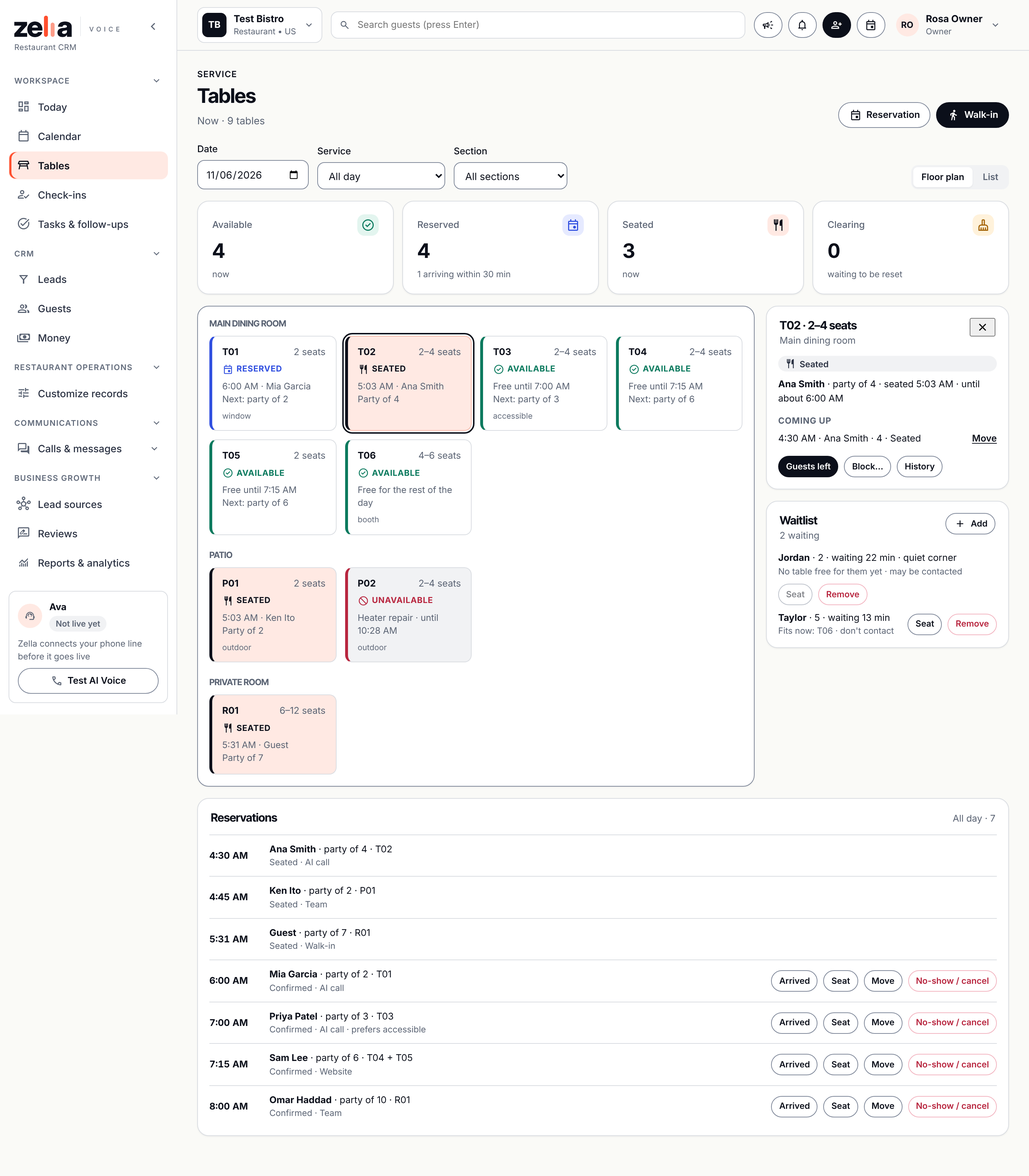
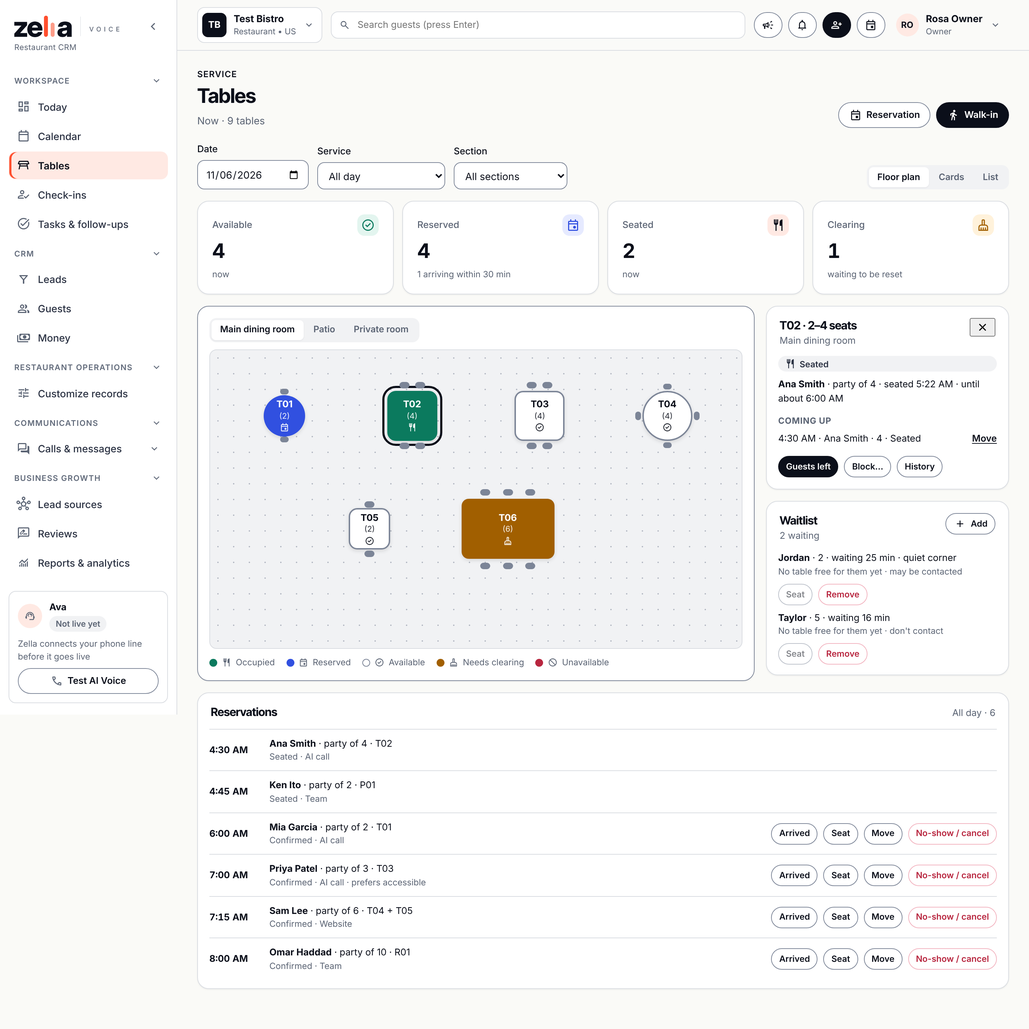
Tables: drawn floor plan on the Tables page and the Today dashboard (BM2, part 3; not applied)
- FloorPlan: each table drawn where the owner placed it, with its shape (square, round, long), chairs for its
  seats, "T2 (4)" and a state colour plus icon (occupied, reserved, held, available, needs clearing,
  unavailable), with a legend. It is a keyboard-operable button with a full spoken label.
- Tables page: Floor plan (sections as tabs), Cards and List views; selecting a table opens its panel.
- Today dashboard (restaurants with tables): a small Table layout card with section tabs and View full layout,
  replacing the old placeholder; a Table column in Today's reservations; sources read Phone / AI receptionist.
- Settings > Tables and seating: a layout editor. Drag tables, or use the arrow keys (Shift for bigger steps); a
  shape per table. Positions are saved per business and audited (restaurant_tables.pos_x / pos_y / shape; drawing
  only, never used for availability).
- Verified in a browser on a local copy: drag and keys saved (79, 75) and audited, actions from the floor plan
  work, no sideways overflow on tablet or phone. Full sequence of 15 pending files passes with exact rollback.

Claude-Session: https://claude.ai/code/session_013Va58JdJpyGbAfXAEmDqgK

diff --git a/web/src/BusinessTables.jsx b/web/src/BusinessTables.jsx
@@ -3,6 +3,7 @@ import { supabase } from "./supabase";
 import { Field, Icon, Modal, Pill } from "./BusinessUI";
 import { formatTime } from "./businessTime";
 import { Empty, Notice, PageHead, Segment, explain, useLoad } from "./BusinessShared";
+import { FloorPlan, autoPlace } from "./FloorPlan";
 
 /* Tables: the live seating board for businesses with "Tables and seating" on (sql/zella_tables.sql).
    Everything here comes from the database's own engine: zella_table_board for what each table is doing now and
@@ -77,6 +78,7 @@ export function TablesPage({ workspace, refreshKey, onNotice, onBook }) {
   const [serviceKey, setServiceKey] = useState("all");
   const [section, setSection] = useState("all");
   const [view, setView] = useState("floor");
+  const [planSection, setPlanSection] = useState(null);
   const [selected, setSelected] = useState(null);
   const [modal, setModal] = useState(null);   // { kind, ... }
   const [working, setWorking] = useState(false);
@@ -150,7 +152,7 @@ export function TablesPage({ workspace, refreshKey, onNotice, onBook }) {
             </select>
           </Field>
         )}
-        <div className="tb-view"><Segment label="View" value={view} onChange={setView} options={[["floor", "Floor plan"], ["list", "List"]]} /></div>
+        <div className="tb-view"><Segment label="View" value={view} onChange={setView} options={[["floor", "Floor plan"], ["cards", "Cards"], ["list", "List"]]} /></div>
       </div>
 
       <Notice error={board.error} onRetry={board.reload} />
@@ -173,7 +175,17 @@ export function TablesPage({ workspace, refreshKey, onNotice, onBook }) {
 
           <div className="tb-layout">
             <section className="ba-panel tb-board" aria-label="Tables">
-              {view === "floor" ? (
+              {view === "floor" ? (() => {
+                const secs = [...new Set(tables.map((t) => t.section))];
+                const show = secs.includes(planSection) ? planSection : secs[0];
+                return (
+                  <>
+                    {secs.length > 1 && <div className="fp-tabs"><Segment label="Section" value={show} onChange={setPlanSection} options={secs.map((x) => [x, x])} /></div>}
+                    <FloorPlan tables={tables.filter((t) => t.section === show)} selectedId={selected} onSelect={(id) => setSelected(id === selected ? null : id)}
+                      label={`${show} floor plan`} tz={tz} formatTime={formatTime} />
+                  </>
+                );
+              })() : view === "cards" ? (
                 [...new Set(tables.map((t) => t.section))].map((sec) => (
                   <div key={sec} className="tb-section">
                     <h2 className="tb-section-title">{sec}</h2>
@@ -480,6 +492,17 @@ export function TableSetup({ workspace, onNotice }) {
   const comboList = combos ?? (data?.combinations ?? []).filter((c) => c.active);
   const setRow = (i, k, v) => setRows(list.map((r, j) => (j === i ? { ...r, [k]: v } : r)));
   const move = (i, d) => { const next = [...list]; const [x] = next.splice(i, 1); next.splice(i + d, 0, x); setRows(next); };
+  const [planSection, setPlanSection] = useState(null);
+  const sectionOf = (t) => (t.section || "Main dining room");
+  // every row with its drawn position: placed by the owner, or where the plan shows it until then
+  const placedRows = () => {
+    const out = list.map((t, i) => ({ ...t, _i: i, seats: Number(t.max_party) || 1 }));
+    for (const sec of [...new Set(out.map(sectionOf))]) {
+      autoPlace(out.filter((t) => sectionOf(t) === sec)).forEach((p) => { out[p._i] = { ...out[p._i], x: p.x, y: p.y }; });
+    }
+    return out;
+  };
+  const moveOnPlan = (key, x, y) => setRows(list.map((r, j) => ((r.id ?? `new-${j}`) === key ? { ...r, x, y } : r)));
 
   async function save(rpc, payload, message, reset) {
     setBusy(true); setProblem(null);
@@ -503,7 +526,7 @@ export function TableSetup({ workspace, onNotice }) {
           {problem.affected.length > 0 && <ul>{problem.affected.map((a) => <li key={a.appointment_id}>{new Date(a.at).toLocaleString([], { timeZone: workspace.timezone, dateStyle: "medium", timeStyle: "short" })} · party of {a.party} · {(a.tables ?? []).join(" + ")}</li>)}</ul>}</span></div>
       )}
       <section className="ba-panel">
-        <div className="ba-panel-head"><div><h2>Tables</h2><p>Order here is the order on the board. Tables you remove are switched off, never deleted.</p></div></div>
+        <div className="ba-panel-head"><div><h2>Tables</h2><p>Order here is the order on the board. Attributes are comma-separated (accessible, window, booth). Tables you remove are switched off, never deleted.</p></div></div>
         <div className="tb-setup-rows">
           {list.map((t, i) => (
             <div key={t.id ?? `new-${i}`} className="tb-setup-row">
@@ -511,7 +534,9 @@ export function TableSetup({ workspace, onNotice }) {
               <Field label="Section"><input value={t.section ?? ""} onChange={(e) => setRow(i, "section", e.target.value)} maxLength={40} placeholder="Main dining room" disabled={!canEdit} /></Field>
               <Field label="Smallest party"><input type="number" min={1} max={100} value={t.min_party} onChange={(e) => setRow(i, "min_party", e.target.value)} disabled={!canEdit} /></Field>
               <Field label="Seats"><input type="number" min={1} max={100} value={t.max_party} onChange={(e) => setRow(i, "max_party", e.target.value)} disabled={!canEdit} /></Field>
-              <Field label="Attributes" hint="Comma-separated, e.g. accessible, window, booth"><input value={t.attributes} onChange={(e) => setRow(i, "attributes", e.target.value)} disabled={!canEdit} /></Field>
+              <Field label="Shape"><select value={t.shape ?? "square"} onChange={(e) => setRow(i, "shape", e.target.value)} disabled={!canEdit}>
+                <option value="square">Square</option><option value="round">Round</option><option value="rect">Long</option></select></Field>
+              <Field label="Attributes"><input value={t.attributes} onChange={(e) => setRow(i, "attributes", e.target.value)} disabled={!canEdit} /></Field>
               {canEdit && <div className="tb-setup-move">
                 <button type="button" className="ba-icon-btn" aria-label={`Move ${t.name} up`} disabled={i === 0} onClick={() => move(i, -1)}><Icon name="arrow_upward" /></button>
                 <button type="button" className="ba-icon-btn" aria-label={`Move ${t.name} down`} disabled={i === list.length - 1} onClick={() => move(i, 1)}><Icon name="arrow_downward" /></button>
@@ -523,9 +548,28 @@ export function TableSetup({ workspace, onNotice }) {
         {canEdit && <div className="ba-form-actions">
           <button type="button" className="ba-btn" onClick={() => setRows([...list, { name: `T${String(list.length + 1).padStart(2, "0")}`, section: list.at(-1)?.section ?? "Main dining room", min_party: 1, max_party: 2, attributes: "" }])}><Icon name="add" size="sm" />Add table</button>
           <button type="button" className="ba-btn primary" disabled={busy || rows === null} onClick={() => save("zella_save_tables", {
-            p_tables: list.map((t) => ({ id: t.id, name: t.name, section: t.section, min_party: Number(t.min_party) || 1, max_party: Number(t.max_party), active: true,
+            p_tables: placedRows().map((t) => ({ id: t.id, name: t.name, section: t.section, min_party: Number(t.min_party) || 1, max_party: Number(t.max_party), active: true,
+              shape: t.shape ?? "square", x: t.x, y: t.y,
               attributes: String(t.attributes ?? "").split(",").map((x) => x.trim()).filter(Boolean) })) }, "Tables saved. The AI receptionist uses them from its next availability check.", () => setRows(null))}>Save tables</button>
         </div>}
+      </section>
+
+      <section className="ba-panel">
+        <div className="ba-panel-head"><div><h2>Floor plan</h2><p>Drag tables to where they are in the room, or select one and use the arrow keys (Shift moves further). Save tables to keep it.</p></div></div>
+        <div className="tb-plan-edit">
+          {(() => {
+            const rowsNow = placedRows();
+            const secs = [...new Set(rowsNow.map(sectionOf))];
+            const show = secs.includes(planSection) ? planSection : secs[0];
+            return (
+              <>
+                {secs.length > 1 && <div className="fp-tabs"><Segment label="Section" value={show} onChange={setPlanSection} options={secs.map((x) => [x, x])} /></div>}
+                <FloorPlan tables={rowsNow.filter((t) => sectionOf(t) === show).map((t) => ({ ...t, id: t.id ?? `new-${t._i}`, state: "available" }))}
+                  editable={canEdit} onMove={moveOnPlan} label={`${show ?? "Room"} layout editor`} />
+              </>
+            );
+          })()}
+        </div>
       </section>
 
       <section className="ba-panel">

diff --git a/web/src/BusinessToday.jsx b/web/src/BusinessToday.jsx
@@ -10,6 +10,7 @@ import { RescheduleModal } from "./BusinessForms";
 import { CONNECT, todayConfig } from "./todayConfig";
 import { humanize } from "./copy/labels";
 import { capabilityOn } from "./navigation/navConfig";
+import { FloorPlan } from "./FloorPlan";
 
 // Today dashboard, built only from this business's real records, read with the member's own session so row level
 // security returns this business's data only. Words follow the industry (Reservations, Patients, Technicians ...)
@@ -17,7 +18,7 @@ import { capabilityOn } from "./navigation/navConfig";
 // so plainly instead of showing numbers.
 
 const SOURCE = {
-  manual: ["Team", "person"], phone: ["Phone", "call"], call: ["Phone", "call"], voice: ["AI receptionist", "smart_toy"],
+  manual: ["Team", "person"], phone: ["Phone", "call"], call: ["Phone", "call"], phone_call: ["Phone", "call"], voice: ["AI receptionist", "smart_toy"], ai_call: ["AI receptionist", "smart_toy"],
   walk_in: ["Walk-in", "directions_walk"], website: ["Online", "language"], website_chat: ["Online chat", "chat"],
   google: ["Google", "travel_explore"], meta: ["Meta", "thumb_up"], referral: ["Referral", "group"], other: ["Other", "more_horiz"],
 };
@@ -114,6 +115,36 @@ function SpamKpi({ workspace, day, tz, onOpen }) {
         </div>
       </div>
     </button>
+  );
+}
+
+// Table layout (restaurants with "Tables and seating" on): the live seating board, drawn as the floor plan.
+// Its own load, so the rest of Today never waits for it; the same data as the Tables page (zella_table_board).
+function TableLayoutCard({ workspace, tz, refresh, onGo }) {
+  const [state, setState] = useState({ data: null, error: "" });
+  const [section, setSection] = useState(null);
+  useEffect(() => {
+    let live = true;
+    supabase.rpc("zella_table_board", { p_business_id: workspace.id }).then(({ data, error }) => {
+      if (live) setState({ data: error ? null : data, error: error ? friendly(error) : "" });
+    });
+    return () => { live = false; };
+  }, [workspace.id, refresh]);
+  const tables = state.data?.tables ?? [];
+  const secs = [...new Set(tables.map((t) => t.section))];
+  const show = secs.includes(section) ? section : secs[0];
+  return (
+    <Card className="td-layout" title="Table layout" action={<button type="button" className="ba-btn sm" onClick={() => onGo("tables")}>View full layout</button>}
+      tabs={secs.length > 1 ? (
+        <div className="td-tabs" role="tablist" aria-label="Sections">
+          {secs.map((x) => <button key={x} type="button" role="tab" aria-selected={show === x} className={show === x ? "active" : ""} onClick={() => setSection(x)}>{x}</button>)}
+        </div>
+      ) : null}>
+      {state.error ? <Empty title="Couldn't load the tables">{state.error}</Empty>
+        : !state.data ? <Empty title="Loading…" />
+        : !tables.length ? <Empty title="No tables yet">Add them in Settings → Tables and seating.</Empty>
+        : <FloorPlan compact tables={tables.filter((t) => t.section === show)} onSelect={() => onGo("tables")} label={`${show} floor plan`} tz={tz} formatTime={formatTime} />}
+    </Card>
   );
 }
 
@@ -224,6 +255,16 @@ export default function BusinessToday({ workspace, userId, fallbackName, industr
   // What this business does (zella_capabilities). A shop or a firm without bookings gets no booking cards or buttons.
   const scheduling = capabilityOn(capabilities, "scheduling");
   const checkinsOn = scheduling && capabilityOn(capabilities, "checkins");
+  const tablesOn = scheduling && capabilityOn(capabilities, "tables");
+  const [tableNames, setTableNames] = useState({});
+  useEffect(() => {
+    if (!tablesOn) return undefined;
+    let live = true;
+    supabase.from("restaurant_tables").select("id, name").eq("business_id", workspace.id).then(({ data }) => {
+      if (live) setTableNames(Object.fromEntries((data ?? []).map((t) => [t.id, t.name])));
+    });
+    return () => { live = false; };
+  }, [tablesOn, workspace.id]);
   const tz = workspace.timezone;
   const term = makeTerm(workspace);
   const cfg = todayConfig(industry);
@@ -433,7 +474,7 @@ export default function BusinessToday({ workspace, userId, fallbackName, industr
             <div className="ba-table-wrap" tabIndex={0}>
               <table className="ba-table static td-table">
                 <thead><tr>
-                  <th>Time</th><th>{term("customer")}</th>{showGuests && <th>{term("customers")}</th>}{showStaff && <th>{term("staff")}</th>}
+                  <th>Time</th><th>{term("customer")}</th>{showGuests && <th>{term("customers")}</th>}{tablesOn && <th>Table</th>}{showStaff && <th>{term("staff")}</th>}
                   <th>Status</th><th>Notes</th><th><span className="ba-sr">Actions</span></th>
                 </tr></thead>
                 <tbody>
@@ -448,6 +489,7 @@ export default function BusinessToday({ workspace, userId, fallbackName, industr
                         <td>{person(a.customer?.id, personName(a.customer) ?? a.title)}
                           <small className="td-sub">{srcIcon && <Icon name={srcIcon} size="sm" />} {src !== "—" ? src : ""}{src !== "—" && personName(a.customer) && a.title ? " · " : ""}{personName(a.customer) ? a.title : ""}{a.forTitle ? ` · for ${a.forTitle}` : ""}</small></td>
                         {showGuests && <td>{a.party_size ?? "—"}</td>}
+                        {tablesOn && <td>{(a.table_ids ?? []).map((id) => tableNames[id]).filter(Boolean).join(" + ") || "—"}</td>}
                         {showStaff && <td>{data.staff[a.staff_id] ?? "—"}</td>}
                         <td><Pill tone={tone}>{stageLabel}</Pill>{a.booking_state === "requested" && <small className="td-sub">Request, not booked</small>}</td>
                         <td className="td-notes">{a.description || a.internal_notes || a.location || ""}</td>
@@ -500,6 +542,8 @@ export default function BusinessToday({ workspace, userId, fallbackName, industr
             <Empty title={loading && !data ? "Loading…" : "No activity yet"}>{!loading && (agent.live ? "Calls and messages your receptionist handles appear here." : "Starts once your AI receptionist is live.")}</Empty>
           )}
         </Card>
+
+        {tablesOn && <TableLayoutCard workspace={workspace} tz={tz} refresh={data} onGo={onGo} />}
 
         <WeekChart week={data?.week} loading={loading && !data} selected={day} onOpen={() => onGo("calls")} />
 
@@ -571,7 +615,7 @@ export default function BusinessToday({ workspace, userId, fallbackName, industr
           ) : <Empty title={loading && !data ? "Loading…" : "Nothing in the next 7 days"} />}
         </Card>}
 
-        {cfg.connect.map((key) => {
+        {cfg.connect.filter((key) => !(key === "tables" && tablesOn)).map((key) => {   // the live layout replaces the placeholder
           const c = CONNECT[key];
           return (
             <Card key={key} title={c.title} className="td-connect">

diff --git a/web/src/FloorPlan.jsx b/web/src/FloorPlan.jsx
@@ -1,0 +1,100 @@
+import { useRef } from "react";
+import { Icon } from "./BusinessUI";
+
+/* The floor plan: each table drawn where the owner placed it (Settings > Tables and seating), with its chairs, its
+   name and seats, and its state from the seating board (zella_table_board). Used by the Tables page, the Today
+   dashboard and the layout editor. Positions only change the drawing; availability never depends on them.
+   States always show a word and an icon as well as a colour. */
+
+export const FLOOR_STATES = {
+  seated: { label: "Occupied", icon: "restaurant" },
+  reserved: { label: "Reserved", icon: "event" },
+  held: { label: "Held", icon: "hourglass_top" },
+  available: { label: "Available", icon: "check_circle" },
+  needs_clearing: { label: "Needs clearing", icon: "cleaning_services" },
+  unavailable: { label: "Unavailable", icon: "block" },
+};
+const LEGEND = ["seated", "reserved", "available", "needs_clearing", "unavailable"];
+
+// where a table sits when the owner hasn't placed it yet: an even grid in the board's order
+export function autoPlace(tables) {
+  const n = tables.length;
+  const cols = Math.max(1, Math.min(5, Math.ceil(Math.sqrt(n * 1.6))));
+  const rows = Math.max(1, Math.ceil(n / cols));
+  return tables.map((t, i) => (t.x != null && t.y != null ? t : {
+    ...t, x: cols === 1 ? 50 : 12 + (i % cols) * (76 / (cols - 1)), y: rows === 1 ? 50 : 18 + Math.floor(i / cols) * (64 / (rows - 1)),
+  }));
+}
+
+// chairs around a table: along the long sides first for squares and rectangles, evenly around for round tables
+function chairs(shape, seats) {
+  const n = Math.max(1, Math.min(12, seats));
+  if (shape === "round") return Array.from({ length: n }, (_, i) => { const a = (2 * Math.PI * i) / n - Math.PI / 2; return { x: 50 + 62 * Math.cos(a), y: 50 + 62 * Math.sin(a), r: a }; });
+  const top = Math.ceil(n / 2), bottom = n - top;
+  if (n <= 2 && shape !== "rect") return [{ x: 50, y: -14, side: "t" }, { x: 50, y: 114, side: "b" }].slice(0, n);
+  const row = (k, y, side) => Array.from({ length: k }, (_, i) => ({ x: ((i + 1) * 100) / (k + 1), y, side }));
+  if (n >= 6 && shape !== "rect") { const ends = 2; const rest = n - ends; return [...row(Math.ceil(rest / 2), -14, "t"), ...row(Math.floor(rest / 2), 114, "b"), { x: -14, y: 50, side: "l" }, { x: 114, y: 50, side: "r" }]; }
+  return [...row(top, -14, "t"), ...row(bottom, 114, "b")];
+}
+
+function size(t, compact) {
+  const base = compact ? 0.56 : 1;
+  const s = t.seats <= 2 ? 58 : t.seats <= 4 ? 70 : t.seats <= 6 ? 84 : 96;
+  const w = t.shape === "rect" ? s * 1.55 : s;
+  const min = compact ? 42 : 0;   // small tables stay readable in the dashboard view
+  return { w: Math.max(min, Math.round(w * base)), h: Math.max(min, Math.round(s * base)) };
+}
+
+export function FloorPlan({ tables, selectedId, onSelect, compact = false, editable = false, onMove, label = "Floor plan", tz, formatTime }) {
+  const box = useRef(null);
+  const drag = useRef(null);
+  const placed = autoPlace(tables);
+
+  const toPercent = (clientX, clientY) => {
+    const r = box.current.getBoundingClientRect();
+    return { x: Math.min(96, Math.max(4, ((clientX - r.left) / r.width) * 100)), y: Math.min(94, Math.max(6, ((clientY - r.top) / r.height) * 100)) };
+  };
+  const down = (t) => (e) => { if (!editable) return; e.currentTarget.setPointerCapture(e.pointerId); drag.current = t.id; };
+  const move = (t) => (e) => { if (!editable || drag.current !== t.id) return; const p = toPercent(e.clientX, e.clientY); onMove?.(t.id, Math.round(p.x * 10) / 10, Math.round(p.y * 10) / 10); };
+  const up = () => { drag.current = null; };
+  const key = (t) => (e) => {
+    if (!editable) return;
+    const step = e.shiftKey ? 5 : 1;
+    const d = { ArrowLeft: [-step, 0], ArrowRight: [step, 0], ArrowUp: [0, -step], ArrowDown: [0, step] }[e.key];
+    if (!d) return;
+    e.preventDefault();
+    onMove?.(t.id, Math.min(96, Math.max(4, t.x + d[0])), Math.min(94, Math.max(6, t.y + d[1])));
+  };
+
+  return (
+    <div className={`fp ${compact ? "compact" : ""} ${editable ? "editable" : ""}`}>
+      <div className="fp-room" ref={box} role="group" aria-label={label}>
+        {!placed.length && <p className="fp-empty">No tables in this section.</p>}
+        {placed.map((t) => {
+          const st = FLOOR_STATES[t.state] ?? FLOOR_STATES.available;
+          const { w, h } = size(t, compact);
+          const sub = t.state === "seated" && t.current ? `${t.current.guest ?? "Guest"}, party of ${t.current.party}`
+            : t.next && formatTime ? `next ${formatTime(t.next.at, tz)}` : "";
+          return (
+            <button key={t.id} type="button"
+              className={`fp-table shape-${t.shape ?? "square"} st-${t.state ?? "available"} ${t.id === selectedId ? "selected" : ""}`}
+              style={{ left: `${t.x}%`, top: `${t.y}%`, width: w, height: h }}
+              onClick={() => onSelect?.(t.id)} onPointerDown={down(t)} onPointerMove={move(t)} onPointerUp={up} onKeyDown={key(t)}
+              aria-pressed={selectedId ? t.id === selectedId : undefined}
+              aria-label={`${t.name}, ${t.seats} seats, ${st.label}${sub ? `, ${sub}` : ""}${editable ? ". Drag, or use the arrow keys, to move it" : ""}`}>
+              {chairs(t.shape, t.seats).map((c, i) => (
+                <span key={i} className={`fp-chair ${c.side ?? "round"}`} style={{ left: `${c.x}%`, top: `${c.y}%`, ...(c.r !== undefined ? { transform: `translate(-50%, -50%) rotate(${c.r + Math.PI / 2}rad)` } : {}) }} aria-hidden="true" />
+              ))}
+              <span className="fp-name">{t.name}</span>
+              <span className="fp-seats">({t.seats})</span>
+              <span className="fp-state" title={st.label}><Icon name={st.icon} size="sm" /></span>
+            </button>
+          );
+        })}
+      </div>
+      <ul className="fp-legend" aria-label="Key">
+        {LEGEND.map((k) => <li key={k}><span className={`fp-swatch st-${k}`} aria-hidden="true" /><Icon name={FLOOR_STATES[k].icon} size="sm" />{FLOOR_STATES[k].label}</li>)}
+      </ul>
+    </div>
+  );
+}

diff --git a/web/src/BusinessApp.css b/web/src/BusinessApp.css
@@ -2114,3 +2114,64 @@ html:not([data-zella-icons="ready"]) .ba-header-actions { flex-wrap: wrap; flex-
 }
 .tb-setup-row.combo { grid-template-columns: minmax(0, 3fr) 0.7fr 0.7fr auto; }
 @media (max-width: 720px) { .tb-setup-row.combo { grid-template-columns: 1fr 1fr; } .tb-setup-row.combo .tb-pick { grid-column: 1 / -1; } }
+
+/* ---------- Floor plan (FloorPlan.jsx) ---------- */
+.fp { display: flex; flex-direction: column; gap: 10px; }
+.fp-room {
+  position: relative; width: 100%; aspect-ratio: 16 / 9; min-height: 300px; border-radius: var(--ba-radius-md);
+  border: 1px solid var(--ba-border); overflow: hidden;
+  background-color: var(--ba-subtle);
+  background-image: radial-gradient(circle, color-mix(in srgb, var(--ba-border-strong) 55%, transparent) 1px, transparent 1px);
+  background-size: 22px 22px;
+}
+.fp.compact .fp-room { min-height: 0; aspect-ratio: 4 / 3; background-size: 16px 16px; }
+.fp.compact .fp-name { font-size: 10.5px; }
+.fp.compact .fp-seats { font-size: 9px; }
+.fp.compact .fp-state .ba-icon { font-size: 10px; }
+.fp.compact .fp-chair { width: 9px; height: 6px; }
+.fp.compact .fp-chair.l, .fp.compact .fp-chair.r { width: 6px; height: 9px; }
+.fp.compact .fp-chair.round { width: 8px; height: 5px; }
+.fp.compact .fp-table { border-radius: 8px; border-width: 1.5px; }
+.fp.compact .fp-table.shape-round { border-radius: 50%; }
+.fp.compact .fp-legend { font-size: 11px; gap: 4px 10px; }
+.fp.compact .fp-legend .ba-icon { display: none; }
+.td-layout .td-tabs button { padding: 3px 10px; font-size: 12px; }
+.fp-empty { position: absolute; inset: 0; display: grid; place-items: center; margin: 0; color: var(--ba-muted); font-size: 13px; }
+.fp-table {
+  position: absolute; transform: translate(-50%, -50%); display: flex; flex-direction: column; align-items: center; justify-content: center; gap: 1px;
+  padding: 0; font: inherit; cursor: pointer; border-radius: 12px; border: 2px solid transparent; color: #fff;
+  box-shadow: 0 2px 6px rgba(0, 0, 0, 0.12); touch-action: none; user-select: none;
+}
+.fp-table.shape-round { border-radius: 50%; }
+.fp-table.shape-rect { border-radius: 10px; }
+.fp-table:focus-visible, .fp-table.selected { outline: 3px solid var(--ba-text); outline-offset: 4px; }
+.fp.editable .fp-table { cursor: grab; }
+.fp.editable .fp-table:active { cursor: grabbing; }
+.fp-name { font-weight: 700; font-size: 13px; line-height: 1.1; }
+.fp-seats { font-size: 11px; opacity: 0.9; }
+.fp-state { display: inline-flex; align-items: center; gap: 2px; font-size: 9.5px; font-weight: 700; text-transform: uppercase; letter-spacing: 0.03em; opacity: 0.95; }
+.fp-state .ba-icon { font-size: 14px; }
+.fp-legend .ba-icon { font-size: 14px; }
+.fp-chair { position: absolute; width: 14px; height: 9px; border-radius: 5px; background: var(--ba-border-strong); transform: translate(-50%, -50%); pointer-events: none; }
+.fp-chair.l, .fp-chair.r { width: 9px; height: 14px; }
+.fp-chair.round { width: 12px; height: 8px; }
+.fp-table.st-seated { background: var(--ba-success); }
+.fp-table.st-reserved { background: var(--ba-info); }
+.fp-table.st-held { background: color-mix(in srgb, var(--ba-info) 55%, var(--ba-surface)); color: var(--ba-text); border: 2px dashed var(--ba-info); }
+.fp-table.st-available { background: var(--ba-surface); color: var(--ba-text); border-color: var(--ba-border-strong); }
+.fp-table.st-needs_clearing { background: var(--ba-warning); }
+.fp-table.st-unavailable { background: var(--ba-danger); }
+.fp-legend { display: flex; flex-wrap: wrap; gap: 6px 16px; list-style: none; margin: 0; padding: 0; font-size: 12px; color: var(--ba-muted); }
+.fp-legend li { display: inline-flex; align-items: center; gap: 6px; }
+.fp-swatch { width: 11px; height: 11px; border-radius: 50%; display: inline-block; }
+.fp-swatch.st-seated { background: var(--ba-success); }
+.fp-swatch.st-reserved { background: var(--ba-info); }
+.fp-swatch.st-available { background: var(--ba-surface); border: 1.5px solid var(--ba-border-strong); }
+.fp-swatch.st-needs_clearing { background: var(--ba-warning); }
+.fp-swatch.st-unavailable { background: var(--ba-danger); }
+.fp-tabs { margin-bottom: 10px; }
+@media (max-width: 720px) {
+  .fp-room { aspect-ratio: 4 / 5; min-height: 360px; }
+}
+.tb-plan-edit { padding: 0 16px 16px; }
+.tb-setup-row { grid-template-columns: 1fr 1.2fr 0.7fr 0.6fr 0.8fr 1.5fr auto; }
